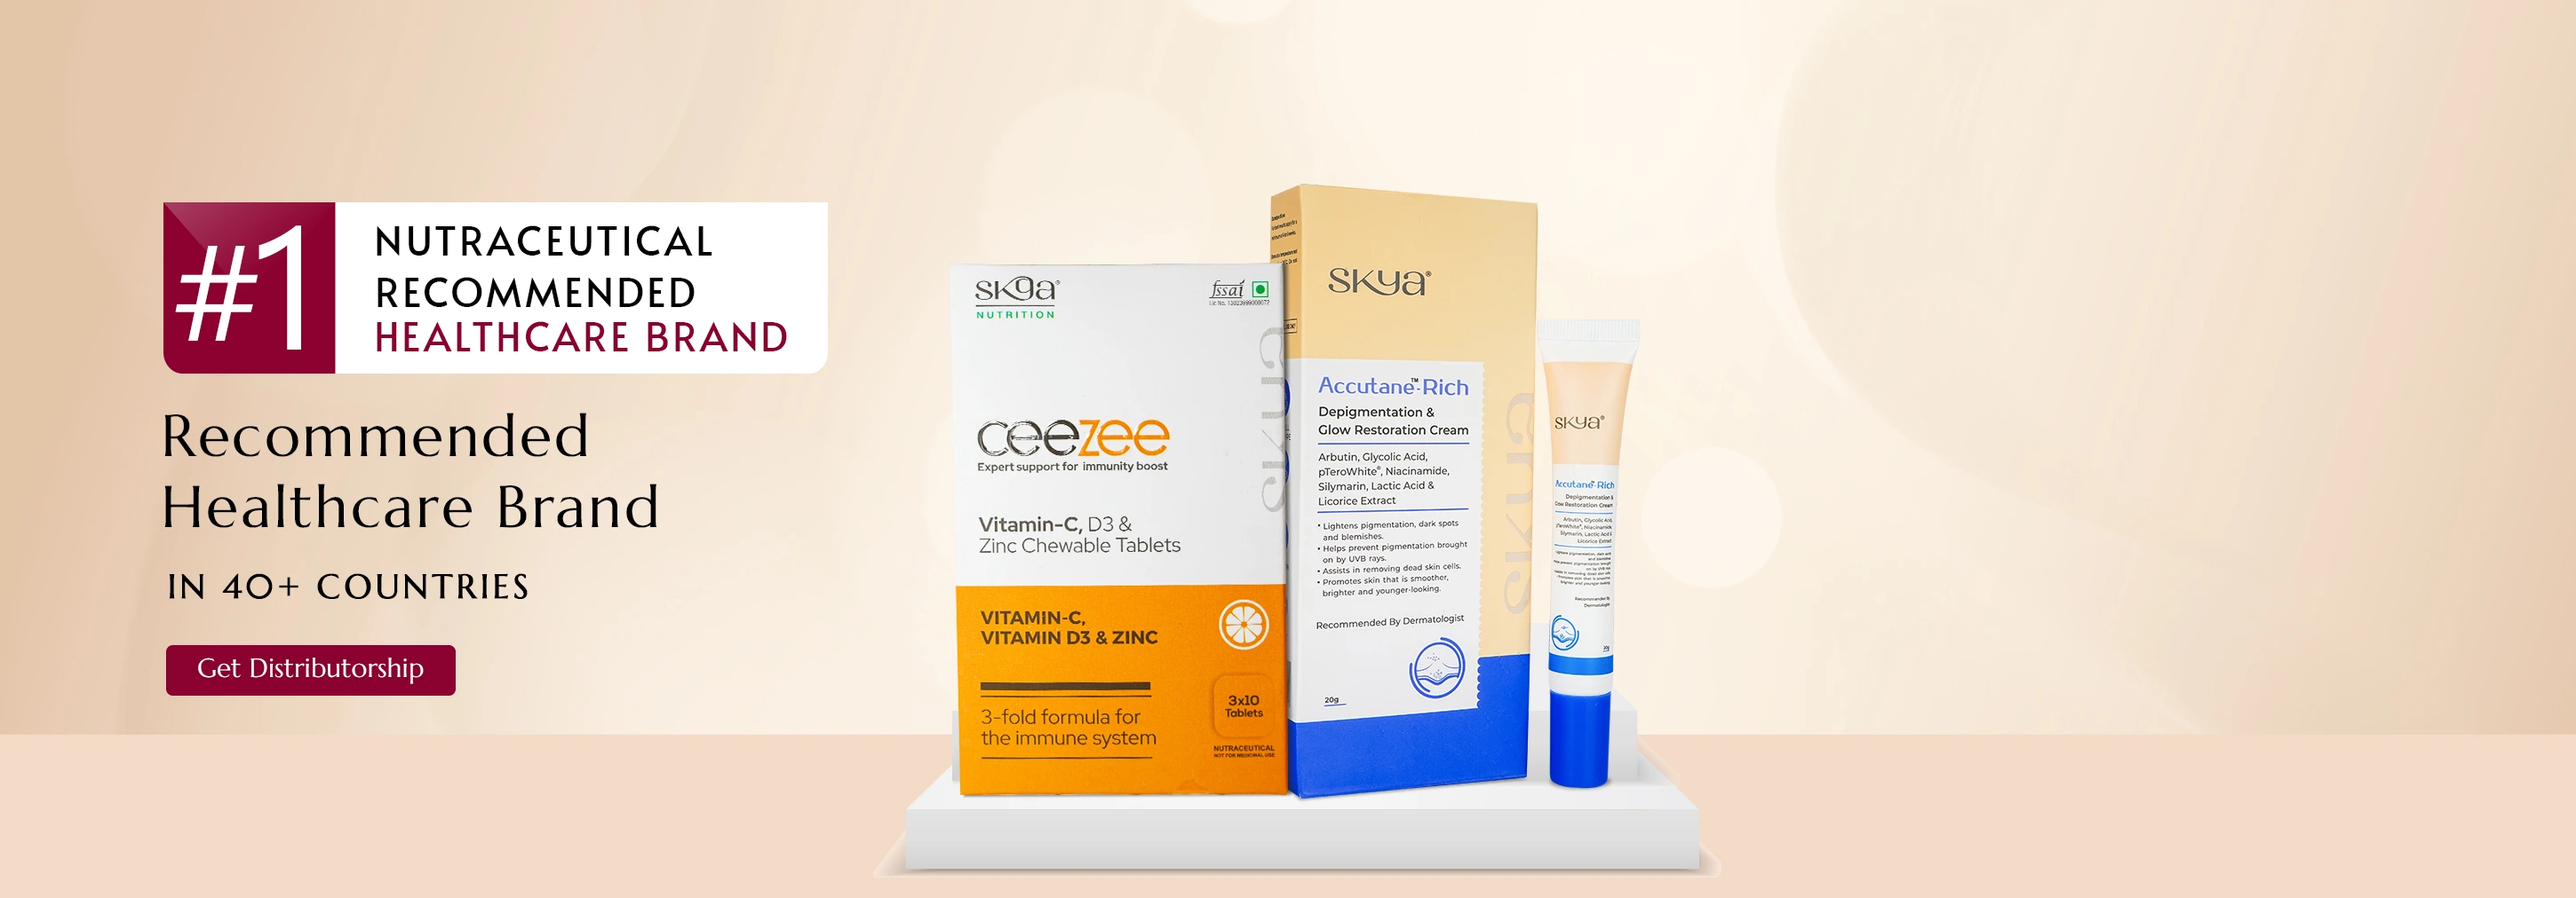
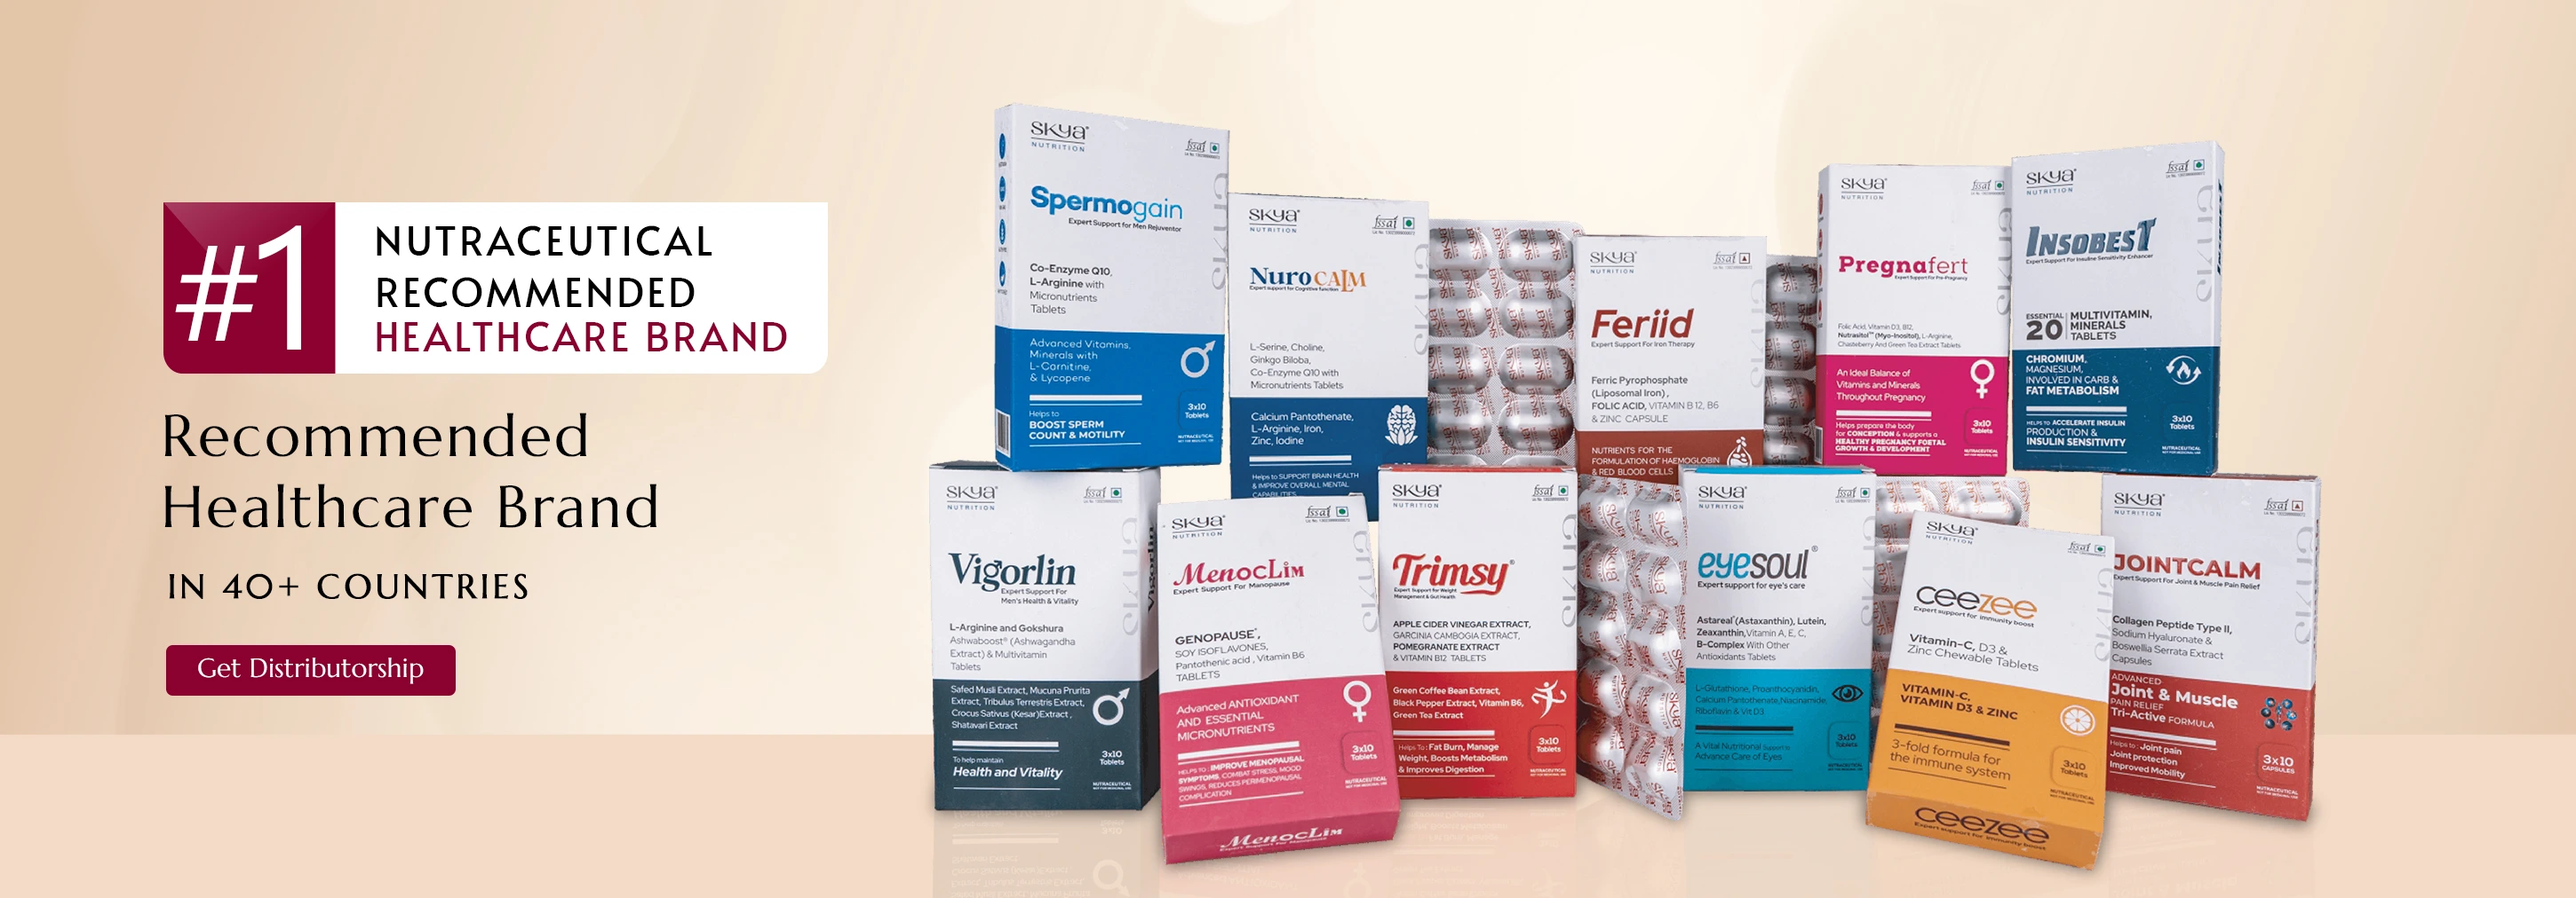
change

Changed region(s): [[0.3414, 0.1225, 0.9, 0.9802]]

diff --git a/index.html b/index.html
@@ -18,12 +18,12 @@
     <header>
         <div class="top-bar py-2">
             <div class="container-xl row mx-auto align-items-center a">
-                <div class="col-md-6 col-sm-12">
-                    <p><i class="fa fa-map-marker" aria-hidden="true"></i>Plot No 72 Ind Area Phase 2 Chandigarh 160002
+                <div class="col-md-8 col-sm-12">
+                    <p><i class="fa fa-map-marker" aria-hidden="true"></i>Skya Transdermic NZ Ltd. 12 Dunoon CLose, Flat Bush, Auckland-2016, New Zealand
 
                         India</p>
                 </div>
-                <div class="col-md-6 col-sm-12">
+                <div class="col-md-4 col-sm-12">
                     <ul class="top-bar-social">
                         <li>
                             <a href="#" target="_blank"><i class="fa-brands fa-facebook" aria-hidden="true"></i> </a>
@@ -38,7 +38,7 @@
         </div>
         <nav class="navbar navbar-expand-lg navbar-light bg-light">
             <div class="container-xl">
-                <a class="navbar-brand" href="index.html"><img src="image/logo.webp" alt="logo"></a>
+                <a class="navbar-brand" href="index.html"><img src="image/Skya-nutra-logo.png" alt="logo"></a>
                 <button class="navbar-toggler" type="button" data-bs-toggle="collapse"
                     data-bs-target="#navbarSupportedContent" aria-controls="navbarSupportedContent"
                     aria-expanded="false" aria-label="Toggle navigation">
@@ -85,9 +85,9 @@
             </div>
           </div>
           <div class="carousel-item">
-            <img src="image/banner.webp" class="d-block w-100" alt="...">
+            <img src="image/Banner-2.webp" class="d-block w-100" alt="...">
             <div class="carousel-caption d-none d-md-block">
-                <button type="button" class="btn btn-primary">Get Distributorship</button>
+               
             </div>
           </div>         
         </div>
@@ -168,9 +168,9 @@
       <div class="row align-items-center">
         <div class="col-md-12 pb-md-5 mb-5">
           <h2 class="main-title text-center fs-1 text-black text-black">Brand Value</h2>
-          <h2 class="main-title text-center fs-5 text-black text-black">Our brand is anchored in four guiding principles
+          <h6 class="main-title text-center fs-5 text-black text-black">Our brand is anchored in four guiding principles
             that define
-            our culture and product philosophy</h2>
+            our culture and product philosophy</h6>
         </div>
  <div class="col-md-5 col-sm-12 d-flex ani-img">
           <div class="firs-img">
@@ -208,8 +208,8 @@
     </div>
   </section>
 
-       <section class="category-sec pt-5 pb-2" id="category ">
-        <div class="container-xl row mx-auto py-md-5 align-items-center justify-content-center">
+       <section class="category-sec pt-2 pb-2" id="category">
+        <div class="container-xl row mx-auto py-md-2 align-items-center justify-content-center">
             <h2 class="main-heading">Our category</h2>
             <div class="col-md-3 col-sm-12">
                 <div class="category-content-inner" id="eye-care">
@@ -797,32 +797,27 @@ secure exclusive distribution rights in your region.
               <div class="col-lg-6 ">
                 <div class="row gy-4">
         
-                  <div class="col-lg-12">
+                  <!-- <div class="col-lg-12">
                     <div class="info-item d-flex flex-column justify-content-center align-items-center aos-init aos-animate" >
                       <i class="fa-solid fa-map-location-dot"></i>
-                      <h4>LOCATION</h4>
-                      <p>Plot No 72 Ind Area Phase 2 Chandigarh 160002
-
-                        India</p>
-                    </div>
-                  </div><!-- End Info Item -->
-        
-                  <div class="col-md-6">
-                    <div class="info-item d-flex flex-column justify-content-center align-items-center aos-init aos-animate" data-aos="fade-up" data-aos-delay="300">
-                      <i class="fa-solid fa-phone-volume"></i>
                       <h4>CALL US</h4>
                       <p><a href="tel:+918989700037">+91 8989700037</a>
-                      </p>
                     </div>
-                  </div><!-- End Info Item -->
+                  </div> -->
         
-                  <div class="col-md-6">
+                <div class="col-md-12">
+                    <div class="info-item d-flex flex-column justify-content-center align-items-center" data-aos="fade-up" data-aos-delay="300">
+                     <img src="image/Contact-us.png" alt="contact">
+                     
+                    </div>
+                  </div>
+                  <!-- <div class="col-md-6">
                     <div class="info-item d-flex flex-column justify-content-center align-items-center aos-init aos-animate" data-aos="fade-up" data-aos-delay="400">
                       <i class="fa-solid fa-envelope-open-text"></i>
                       <h4>EMAIL US</h4>
                       <p><a href="mailto:skyatransdermic@gmail.com">skyatransdermic@gmail.com</a></p>
                     </div>
-                  </div><!-- End Info Item -->
+                  </div> --> 
         
                 </div>
               </div>
@@ -868,77 +863,19 @@ secure exclusive distribution rights in your region.
                 </div>
 
                 <!-- Footer -->
-                <footer class="footer-sec pt-5 pb-3" id="footer">
-                    <div class="container-xl mx-auto row">
-                        <div class="col-md-4 col-sm-12">
-                            <div class="footer-inner footerabout pe-md-5 ">
-                                <a href="index.html"><img src="image/logo.webp" alt="logo"></a>
-                                
-                                <ul class="footer-social">
-                                    <li>
-                                        <a href="#" target="_blank"><i class="fa-brands fa-facebook" aria-hidden="true"></i> </a>
-                                    </li>
-                                    
-                                    <li>
-                                        <a href="#" target="_blank"><i class="fa-brands fa-instagram" aria-hidden="true"></i> </a>
-                                    </li>                                   
-                                </ul>
-                            </div>
-                            
-                        </div>
-                        <div class="col-md-4 col-sm-12">
-                            <div class="footer-inner ">
-                                <h6>Quick Links</h6>
-                                <ul class="footer-quick list">
-                                    <li>
-                                        <a  href="#"><i class="fa fa-angle-right"></i>Home</a>
-                                    </li>
-                                    <li>
-                                        <a href="#about-us"><i class="fa fa-angle-right"></i>About Us</a>
-                                    </li>
-                                    <li>
-                                        <a href="#category"><i class="fa fa-angle-right"></i>Our Range</a>
-                                    </li>
-                                    <li>
-                                        <a href="#contact"><i class="fa fa-angle-right"></i>Contact</a>
-                                    </li>
-                                </ul>
-                            </div>
-                        </div>
-                      
-            
-                        <div class="col-md-4 col-sm-12">
-                            <div class="footer-inner ">
-                                <h6>By Category</h6>
-                                <ul class="footer-contact">
-                                    <li>
-                                      
-                                        <a href="#eye-care" target="_blank"><i class="fa fa-angle-right"></i>Eye Care</a>
-                                    </li>
-                                    <li>
-                                        <a href="#skin-care" target="_blank"><i class="fa fa-angle-right"></i>Skin Care</a>
-                                    </li>
-                                    <li>
-                                        <a href="#hair-care" target="_blank"><i class="fa fa-angle-right"></i>Hair Care</a>
-                                    </li>
-                                    <li>
-                                        <a href="#skin-care-treat" target="_blank"><i class="fa fa-angle-right"></i>Skin Care Treatment</a>
-                                    </li>
-                                    
-                                </ul>
-                            </div>
-                        </div>
-            
-                        
-                    </div>
-                    <div class="copyright-ftr py-2">
-                        <div class="container">
-                          <p class="font-15 white text-center m-0">
-                            Copyright © 2025 Skya Nutrition | Design &amp; Developed By <a style="text-decoration: none;" href="https://www.webhopers.com" target="_blank" rel="noopener"><b style="color: #126cdc;">Web</b><b style="color: #ff7713;">Hopers</b></a>         
-                          </p>
-                        </div>
-                      </div>
-                </footer>
+                <footer class="py-3">
+    <div class="container pt-md-5 text-center text-white">
+             <a href="index.html"><img src="./image/Skya-nutra-logo.png" alt="img" width="160" class="img-fluid"></a>
+        <h5 class="m-0 text-capitalize">NewZealand Based R&amp;D Formulations</h5>
+       <p class="mt-3  text-capitalize">Skya Transdermic NZ Ltd.
+12 Dunoon CLose, Flat Bush, Auckland-2016, New Zealand</p>
+    
+    </div>
+
+  </footer>
+  <!-- <div class="bubble">
+    <a href="tel:+918989700037"><img src="image/call.png" alt="call"></a>
+    </div> -->
     <!-- Script -->
     <script src="https://cdn.jsdelivr.net/npm/bootstrap@5.3.5/dist/js/bootstrap.bundle.min.js"></script>
     <script src="https://cdn.jsdelivr.net/npm/@popperjs/core@2.11.8/dist/umd/popper.min.js"></script>

diff --git a/css/style.css b/css/style.css
@@ -560,6 +560,10 @@ section#about-us {
     .category-content-inner {        
         height: 370px;
     }
+    .form-color {
+    background: #f8ede4;
+    width: 30%;
+}
     section.testimonials {
     margin-top: 75px;
 }
@@ -903,4 +907,64 @@ ul.global-list li {
     margin-bottom: 25px;
     font-size: 40px;
     text-transform: uppercase;
+}
+@media (max-width: 767px) {
+    section#about-us {
+        padding-bottom: 0 !important;
+    }
+    .col-md-7.col-sm-12.brand-content.position-relative {
+    margin-top: 20px;
+}
+.category-sec .col-md-3.col-sm-12 {
+    margin: 10px 0;
+}
+.why-heading h2.main-heading {
+    text-align: center;
+    margin-bottom: 25px;
+    font-size: 35px;
+    text-transform: uppercase;
+}
+#heading-color {
+    background-color: #88222f;
+    padding: 10px;
+    color: #fff;
+    width: 95%;
+    margin-top: 20px;
+    border-radius: 0px 25px 25px 0;
+    font-size: 18px !important;
+}
+h2.main-heading {
+    text-align: center;
+    margin-bottom: 30px !important;
+    font-size: 40px;
+    text-transform: uppercase;
+}
+section.testimonials h2.main-heading, .hair-range h2.main-heading {
+    text-align: center;
+    margin-bottom: 35px !important;
+    font-size: 30px !important;
+    text-transform: uppercase;
+}
+section.hair-range .owl-dots, .owl-nav {
+    display: none !important;
+}
+section.pro-segment.pt-2.pb-5.position-relative {
+    margin-top: -25px;
+}
+}
+footer.py-3 {
+    background-image: url(image/Footer.png);
+    margin-top: 50px;
+}
+footer.py-3 img.img-fluid {
+    background-color: #fff;
+    padding: 10px;
+    margin-bottom: 25px;
+}
+div#contact img {
+    width: 100%;
+}
+.bubble {
+    position: absolute;
+    right: 0px;       
 }
